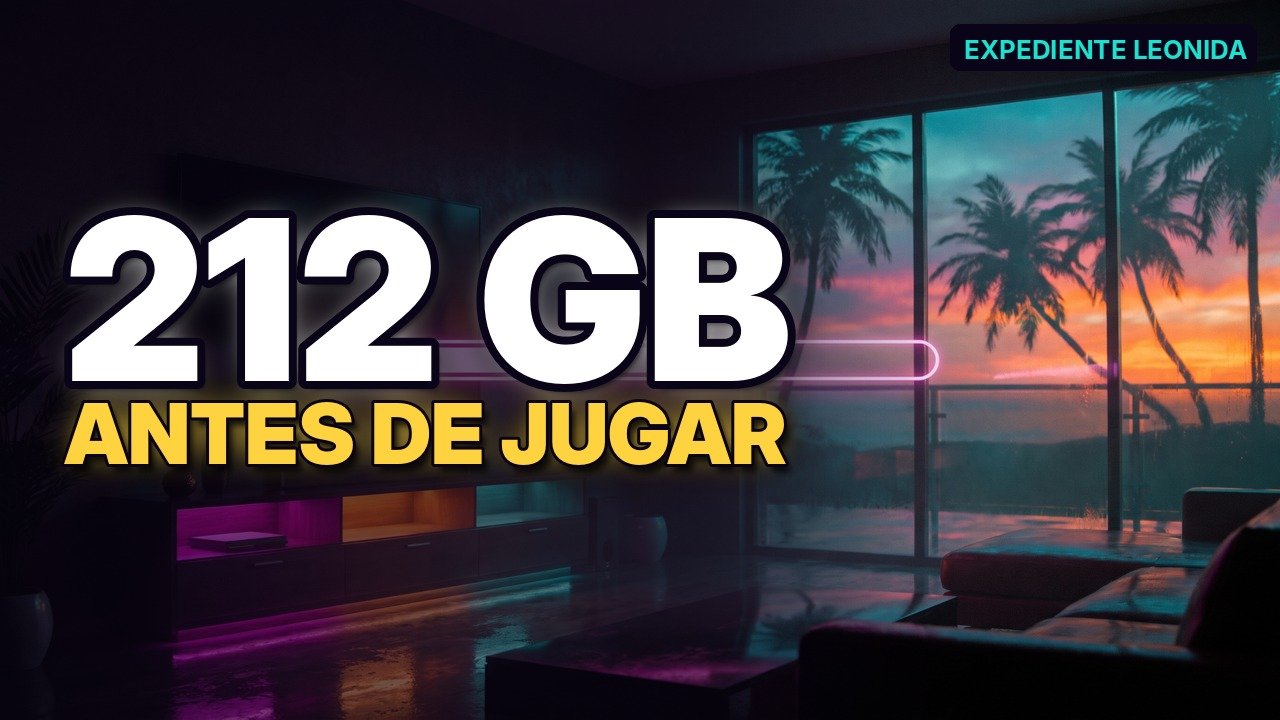
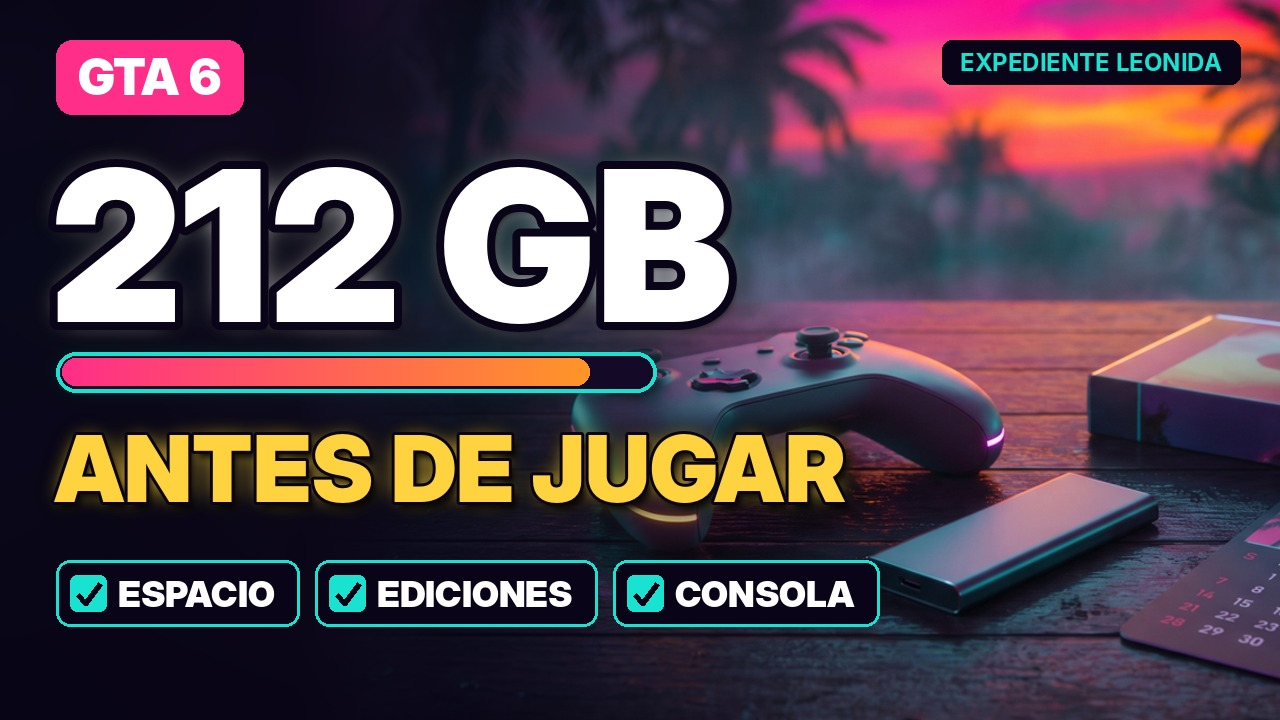
Vídeo 09: miniatura nueva tipo guía (GTA 6, 212 GB con barra, ANTES DE JUGAR y casillas de temas) sobre E42
arte.py: diseño miniatura_guia, que se activa si metadatos tiene «puntos»; fondo desplazable con fondo_x

Claude-Session: https://claude.ai/code/session_011efJpYMjzejTaM8L7jfdLJ

diff --git a/gta6/herramientas/arte.py b/gta6/herramientas/arte.py
@@ -121,13 +121,81 @@ def hex2rgb(hx):
     return tuple(int(hx[i:i + 2], 16) for i in (1, 3, 5))
 
 
+def _glow_texto(img, pos, txt, f, col, borde=(10, 4, 24), glow=16):
+    capa = Image.new("RGBA", img.size, (0, 0, 0, 0)); ImageDraw.Draw(capa).text(pos, txt, font=f, fill=col + (255,))
+    g = capa.filter(ImageFilter.GaussianBlur(glow)); img.alpha_composite(g); img.alpha_composite(g)
+    sh = Image.new("RGBA", img.size, (0, 0, 0, 0)); ImageDraw.Draw(sh).text((pos[0] + 5, pos[1] + 7), txt, font=f, fill=(0, 0, 0, 210))
+    img.alpha_composite(sh.filter(ImageFilter.GaussianBlur(3)))
+    ImageDraw.Draw(img).text(pos, txt, font=f, fill=col, stroke_width=max(3, f.size // 26), stroke_fill=borde)
+
+
+def miniatura_guia(base, m):
+    """Diseño de «guía»: etiqueta del juego, cifra grande con barra, subtítulo y casillas con los temas."""
+    W, H = 1280, 720
+    dx = m.get("fondo_x", 0)  # desplaza el fondo a la derecha para que lo importante no quede bajo el texto
+    if dx:
+        esc = base.resize((W + dx // 2, H + dx // 2 * H // W))
+        lienzo = base.resize((W, H)).filter(ImageFilter.GaussianBlur(30))
+        mk = Image.new("L", esc.size, 0); ImageDraw.Draw(mk).rectangle([60, 0, esc.width, esc.height], fill=255)
+        lienzo.paste(esc, (dx, (H - esc.height) // 2), mk.filter(ImageFilter.GaussianBlur(40))); base = lienzo
+    img = base.convert("RGBA")
+    # degradado oscuro a la izquierda para que el texto se lea
+    grad = Image.new("L", (W, H), 0); dg = ImageDraw.Draw(grad)
+    for x in range(W):
+        dg.line([(x, 0), (x, H)], fill=int(235 * max(0.0, min(1.0, (820 - x) / 520))))
+    img = Image.composite(Image.new("RGBA", (W, H), (8, 4, 22, 255)), img, grad)
+    d = ImageDraw.Draw(img)
+    acento = hex2rgb(m["acento"]); rosa, turq = (255, 46, 136), (25, 227, 208)
+    x0 = 56
+    # etiqueta del juego
+    fe = ImageFont.truetype(FUENTE, 50); t = m.get("etiqueta", "")
+    if t:
+        bb = fe.getbbox(t); d.rounded_rectangle([x0, 40, x0 + bb[2] + 44, 40 + 74], radius=16, fill=rosa)
+        d.text((x0 + 22, 40 + 37), t, font=fe, fill=(255, 255, 255), anchor="lm")
+    # cifra grande
+    f1 = ImageFont.truetype(FUENTE, 210)
+    _glow_texto(img, (x0 - 6, 118), m["linea1"], f1, (255, 255, 255))
+    # barra de almacenamiento
+    by, bw, bh = 352, 600, 40; llen = m.get("barra", 0.88)
+    glow = Image.new("RGBA", (W, H), (0, 0, 0, 0)); ImageDraw.Draw(glow).rounded_rectangle([x0, by, x0 + bw, by + bh], radius=20, outline=turq + (255,), width=6)
+    img.alpha_composite(glow.filter(ImageFilter.GaussianBlur(10)))
+    d = ImageDraw.Draw(img)
+    d.rounded_rectangle([x0, by, x0 + bw, by + bh], radius=20, fill=(20, 10, 40), outline=turq, width=4)
+    relleno = Image.new("RGBA", (int(bw * llen), bh - 12)); dr = ImageDraw.Draw(relleno)
+    for x in range(relleno.width):
+        dr.line([(x, 0), (x, relleno.height)], fill=lerp(rosa, (255, 150, 40), x / relleno.width) + (255,))
+    mk = Image.new("L", relleno.size, 0); ImageDraw.Draw(mk).rounded_rectangle([0, 0, relleno.width - 1, relleno.height - 1], radius=14, fill=255)
+    img.paste(relleno, (x0 + 6, by + 6), mk)
+    # subtítulo
+    f2 = ImageFont.truetype(FUENTE, 92)
+    _glow_texto(img, (x0 - 2, 412), m["linea2"], f2, acento, glow=12)
+    # casillas con los temas
+    d = ImageDraw.Draw(img); fp = ImageFont.truetype(FUENTE, 36); x = x0; y = 560
+    for p in m.get("puntos", []):
+        bb = fp.getbbox(p); ancho = 62 + bb[2] + 24
+        d.rounded_rectangle([x, y, x + ancho, y + 66], radius=14, fill=(10, 4, 24), outline=turq, width=3)
+        d.rounded_rectangle([x + 14, y + 15, x + 50, y + 51], radius=7, fill=turq)
+        d.line([(x + 21, y + 34), (x + 29, y + 43), (x + 44, y + 23)], fill=(10, 4, 24), width=6, joint="curve")
+        d.text((x + 62, y + 34), p, font=fp, fill=(255, 255, 255), anchor="lm")
+        x += ancho + 16
+    # canal
+    fc = ImageFont.truetype(FUENTE_MED, 24)
+    bb = fc.getbbox(CANAL); d.rounded_rectangle([W - 40 - bb[2] - 36, 40, W - 40, 84], radius=10, fill=(10, 4, 24))
+    d.text((W - 40 - 18, 62), CANAL, font=fc, fill=turq, anchor="rm")
+    return img.convert("RGB")
+
+
 def miniaturas(fondo=None):
     meta = json.loads((RAIZ / "herramientas" / "metadatos.json").read_text())
     for i, (carpeta, m) in enumerate(meta.items()):
-        if fondo and (RAIZ / carpeta / fondo).exists():
-            base = Image.open(RAIZ / carpeta / fondo).convert("RGB").resize((1280, 720))
+        fondo_m = m["miniatura"].get("fondo", fondo)
+        if fondo_m and (RAIZ / carpeta / fondo_m).exists():
+            base = Image.open(RAIZ / carpeta / fondo_m).convert("RGB").resize((1280, 720))
         else:
             base = atardecer(1280, 720, semilla=i, sol_x=0.74)
+        if "puntos" in m["miniatura"]:
+            miniatura_guia(base, m["miniatura"]).save(RAIZ / carpeta / "miniatura.jpg", quality=92)
+            print("miniatura", carpeta, "(guía)"); continue
         img = texto_neon(base, [m["miniatura"]["linea1"], m["miniatura"]["linea2"]], hex2rgb(m["miniatura"]["acento"]))
         d = ImageDraw.Draw(img)
         f = ImageFont.truetype(FUENTE_MED, 26)
